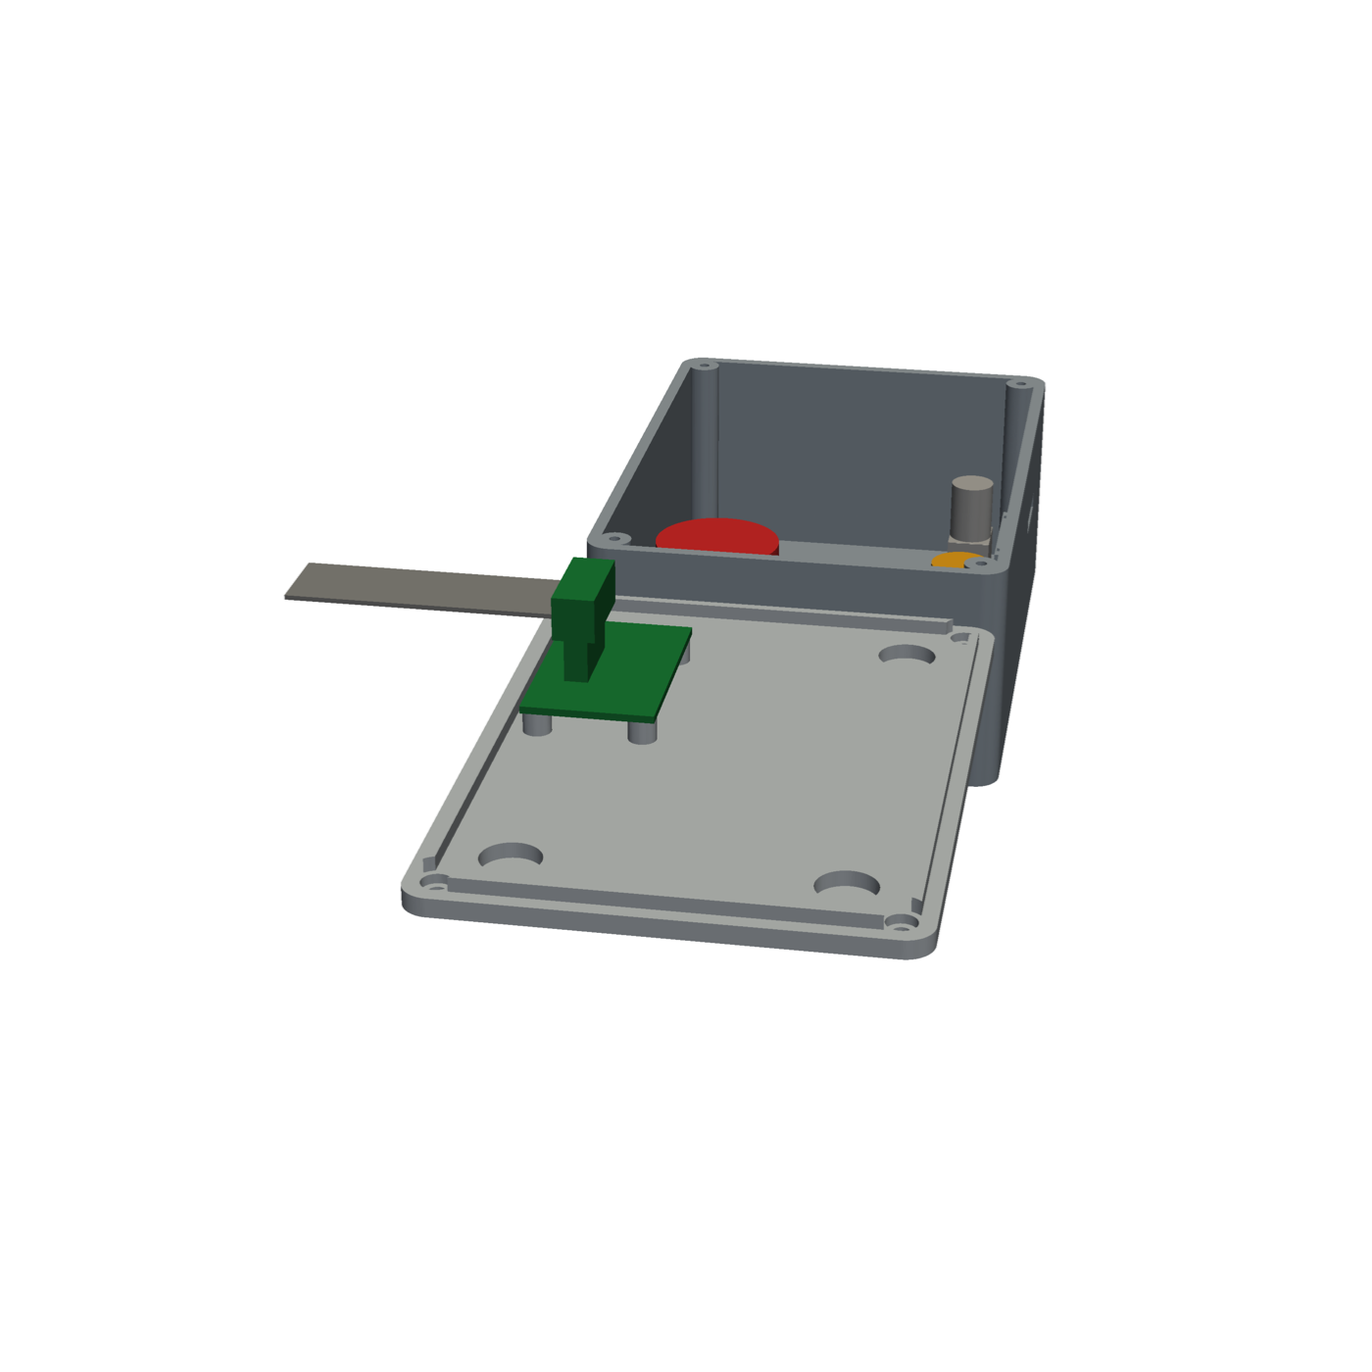
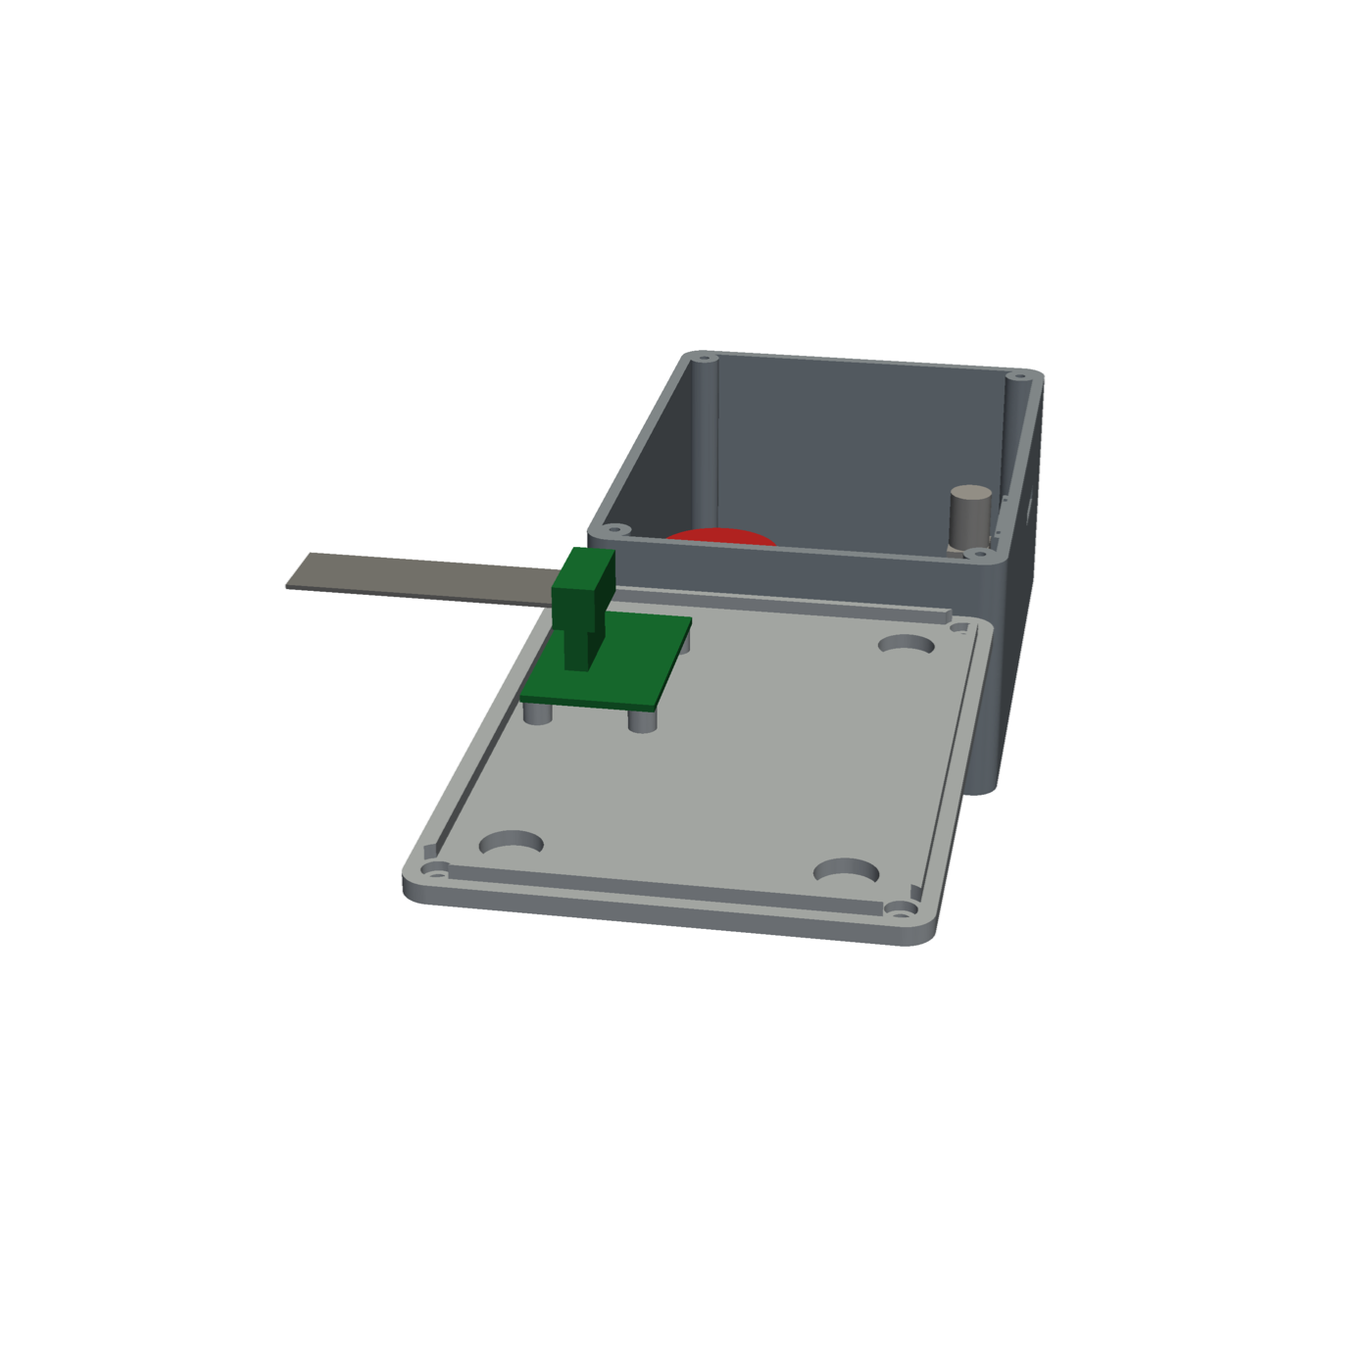
Fix enclosure PCB insertion and panel print tolerances
Enclosure:
- move the 4 lid-screw bosses beside the board on the left/right walls
  (outside the 100x100 outline, 0.8 mm from the PCB edge, 8.4 mm from the
  PCB screw axes); side margin 6.3 mm, outer 117.6 mm wide
- add a wall pad around the USB hole so the plug still reaches the Pico
- add insertion_sweep(): PCB lifted 0..45 mm in 1 mm steps, zero
  intersection with the base (negative control with overlapping bosses
  is flagged)

Panel:
- print-compensated holes: E-stop 22.5, toggle 12.4, rapid 16.3,
  encoder 7.4 / pin 3.2
- depth is now a parameter, 60 mm (12 mm behind the E-stop body)
- EC11 bushing check (panel + nut vs bushing length) with automatic rear
  thinning if needed
- zip-tie bridge: 45 degree chamfer on the bed-side face
- comment fix: cover holes are counterbored, not countersunk

Changed region(s): [[0.215, 0.2457, 0.7679, 0.7064], [0.4607, 0.2764, 0.4914, 0.3379]]

diff --git a/mechanical/enclosure/enclosure.py b/mechanical/enclosure/enclosure.py
@@ -11,7 +11,8 @@ PCB top-left corner = (0, 0). Floor underside = Z 0.
 
 Parts
   base       floor + 4 standoffs (PCB 6 mm up) + walls + connector notch + USB hole + 2 mounting ears
-             + 4 hanging lid-screw bosses in the corners (M3 self-tapping, 8 mm deep).
+             + 4 hanging lid-screw bosses on the left / right walls, entirely OUTSIDE the 100 x 100 board outline
+               (the PCB drops straight down between them; see insertion_sweep()).
   lid        plate with inner locating lip, 4 counterbored M3 holes, vent slots over the driver area,
              a fuse access opening + rebate, and a front skirt that closes the top of the J1..J3 window.
   fuse_hatch small plate that covers the fuse opening (2x M3x8 into lid-underside bosses).
@@ -64,7 +65,7 @@ class P:
     usb_z: float = 2.4                           # hole centre above PCB top (Pico USB centre line)
     # ---- shell
     wall: float = 2.5
-    pcb_clear: float = 1.0                       # gap PCB edge -> inner wall
+    pcb_clear: float = 1.0                       # gap PCB edge -> inner wall at the top (y = 0) and connector (y = 100) edges
     standoff_h: float = 6.0                      # PCB underside above the floor
     standoff_d: float = 7.0
     pilot_d: float = 2.6                         # M3 self-tapping pilot in PETG (2.5 tap drill in alu)
@@ -77,8 +78,10 @@ class P:
     lip_h: float = 3.0
     lip_t: float = 1.6
     lip_gap: float = 0.25                        # lip to inner wall clearance
-    boss_r: float = 4.5                          # lid-screw boss radius (corner, hanging from the rim)
-    boss_off: float = 3.5                        # boss centre distance from the two inner wall faces
+    boss_r: float = 3.5                          # lid-screw boss radius (hangs from the rim on the left / right walls)
+    boss_gap: float = 0.8                        # boss surface -> PCB edge (the PCB passes beside the bosses)
+    boss_embed: float = 1.5                      # how far the boss sinks into the side wall
+    boss_y: tuple = (3.0, 97.5)                  # boss centres along the wall (PCB y)
     boss_h: float = 9.0
     boss_hole: float = 2.6
     boss_hole_depth: float = 8.0
@@ -135,8 +138,18 @@ class P:
         return self.z_rim + self.lid_t
 
     @property
+    def side_clear(self):
+        """Gap PCB edge -> inner side wall: room for a boss beside the board (2r + gap - embed = 6.3 mm)."""
+        return 2 * self.boss_r + self.boss_gap - self.boss_embed
+
+    @property
+    def filler_y(self):
+        """PCB-y range of the right-wall pad around the USB hole (starts 1 mm past the top boss)."""
+        return (self.boss_y[0] + self.boss_r + 1.0, self.usb_y + 12.0)
+
+    @property
     def inner_w(self):
-        return self.pcb_w + 2 * self.pcb_clear
+        return self.pcb_w + 2 * self.side_clear
 
     @property
     def inner_d(self):
@@ -180,10 +193,9 @@ class P:
 
     @property
     def boss_pts(self):
-        c, o = self.pcb_clear, self.boss_off
-        xs = (-c + o, self.pcb_w + c - o)
-        ys = (-c + o, self.pcb_h + c - o)
-        return [(x, y) for y in ys for x in xs]       # PCB coordinates
+        d = self.boss_r + self.boss_gap
+        xs = (-d, self.pcb_w + d)
+        return [(x, y) for y in self.boss_y for x in xs]       # PCB coordinates; all outside x 0..100
 
 
 p = P()
@@ -223,7 +235,7 @@ def base():
         so = zcyl(x, y, p.z_floor - 0.5, p.standoff_h + 0.5, p.standoff_d / 2)
         so = so - zcyl(x, y, p.z_floor + p.standoff_h - p.pilot_depth, p.pilot_depth + 1, p.pilot_d / 2)
         s = s + so
-    # lid-screw bosses hanging from the rim in the four corners (45 degree cone underneath = printable)
+    # lid-screw bosses hanging from the rim on the side walls, beside the board (45 degree cone underneath = printable)
     cone_h = p.boss_r - 1.0
     for (x, y) in p.boss_pts:
         b = zcyl(x, y, p.z_rim - p.boss_h, p.boss_h, p.boss_r)
@@ -234,7 +246,7 @@ def base():
     # mounting ears on the left / right walls
     cy = -p.ear_y
     for side in (-1, 1):
-        x_out = -p.pcb_clear - p.wall if side < 0 else p.pcb_w + p.pcb_clear + p.wall
+        x_out = -p.side_clear - p.wall if side < 0 else p.pcb_w + p.side_clear + p.wall
         x_c = x_out + side * (p.ear_len / 2 - 1.0)                      # 1 mm buried into the wall
         ear = Pos(x_c, cy, 0) * Box(p.ear_len, p.ear_w, p.ear_t, align=MIN)
         slot_c = x_out + side * (p.ear_len / 2 + 1.5)
@@ -245,10 +257,14 @@ def base():
     y_out = y_in + p.wall
     nx0, nx1 = p.notch_x
     s = s - pbox(nx0, y_in - 1.0, nx1, y_out + 1.0, p.notch_bot, p.z_rim + 1)
+    # right wall pad around the USB hole: brings the inside face back to pcb_clear so the Pico micro-USB is only
+    # a few mm behind the wall (a plug cannot reach it across the 6.3 mm boss strip)
+    fy0, fy1 = p.filler_y
+    s = s + pbox(p.pcb_w + p.pcb_clear, fy0, p.pcb_w + p.side_clear + 0.5, fy1, p.z_floor - 0.5, p.z_rim)
     # micro-USB hole in the +x wall
     xi = p.pcb_w + p.pcb_clear
     zc = p.z_pcb_top + p.usb_z
-    s = s - pbox(xi - 1.0, p.usb_y - p.usb_w / 2, xi + p.wall + 1.0, p.usb_y + p.usb_w / 2, zc - p.usb_h / 2, zc + p.usb_h / 2)
+    s = s - pbox(xi - 1.0, p.usb_y - p.usb_w / 2, p.pcb_w + p.side_clear + p.wall + 1.0, p.usb_y + p.usb_w / 2, zc - p.usb_h / 2, zc + p.usb_h / 2)
     return s
 
 
@@ -259,14 +275,14 @@ def lid():
     g = p.lip_gap
     lip = rprism(p.inner_w - 2 * g, p.inner_d - 2 * g, max(p.r_in - g, 0.5), p.z_rim - p.lip_h, p.z_rim)
     lip = lip - rprism(p.inner_w - 2 * g - 2 * p.lip_t, p.inner_d - 2 * g - 2 * p.lip_t, 0.5, p.z_rim - p.lip_h - 1, p.z_rim + 1)
-    for (x, y) in p.boss_pts:                                    # relief around the corner bosses
+    for (x, y) in p.boss_pts:                                    # relief around the side-wall bosses
         lip = lip - zcyl(x, y, p.z_rim - p.lip_h - 1, p.lip_h + 2, p.boss_r + 0.4)
     nx0, nx1 = p.notch_x
     y_in = p.pcb_h + c
     y_out = y_in + p.wall
+    fy0, fy1 = p.filler_y
+    lip = lip - pbox(p.pcb_w + c - 0.5, fy0 - 0.5, p.pcb_w + p.side_clear + 1.0, fy1 + 0.5, p.z_rim - p.lip_h - 1, p.z_rim + 1)   # right lip gap at the pad
     lip = lip - pbox(nx0 - 0.5, y_in - 3.0, nx1 + 0.5, y_in + 0.5, p.z_rim - p.lip_h - 1, p.z_rim + 1)   # front lip gap
-    hx0, hy0, hx1, hy1 = p.hatch_rebate
-    lip = lip - pbox(hx0 - 1.0, hy0, hx1 + 1.0, hy1, p.z_rim - p.lip_h - 1, p.z_rim + 1)               # left lip gap at the hatch
     s = s + lip
     # skirt that closes the top of the J1..J3 window (flush with the outer wall face)
     wx0, wx1 = p.win_x
@@ -351,6 +367,30 @@ def interference(parts):
     return bad
 
 
+def insertion_sweep(base_shape, top=45.0, step=1.0):
+    """Lift the PCB placeholder (board + every part on it) straight up from its seat in `step` mm increments and
+    intersect it with the base at each height. This is the reverse of installing the board: all zero means the
+    board can be lowered onto the standoffs without touching anything. dz = 0 is the seated position."""
+    pieces = [pc for pc in pcb_placeholder()]
+    worst = 0.0
+    n = int(round(top / step))
+    for i in range(n + 1):
+        dz = i * step
+        for pc in pieces:
+            v = (base_shape & (Pos(0, 0, dz) * pc)).volume
+            worst = max(worst, v)
+            if v > 0.01:
+                print("  INSERTION COLLISION at dz=%.1f mm: %.3f mm3" % (dz, v))
+    ok = worst <= 0.01
+    print("insertion sweep: PCB lifted 0..%.0f mm in %.1f mm steps (%d positions), max intersection with base %.4f mm3 -> %s"
+          % (top, step, n + 1, worst, "CLEAR" if ok else "COLLISION"))
+    # also report the nearest approach of any boss to the board outline
+    d = min(abs(x - 0) - p.boss_r if x < 50 else abs(x - p.pcb_w) - p.boss_r for x, _ in p.boss_pts)
+    print("boss surface to PCB edge: %.2f mm; boss axis to nearest PCB screw axis: %.1f mm"
+          % (d, min(math.hypot(bx - hx, by - hy) for bx, by in p.boss_pts for hx, hy in p.holes)))
+    return ok
+
+
 def build(suffix=""):
     os.makedirs(OUT, exist_ok=True)
     parts = {"base": base(), "lid": lid(), "fuse_hatch": fuse_hatch()}
@@ -413,5 +453,6 @@ if __name__ == "__main__":
         parts = build()
     info(parts)
     interference(parts)
+    insertion_sweep(parts["base"])
     if "--alu" not in sys.argv:
         render(parts)

diff --git a/mechanical/panel/panel.py b/mechanical/panel/panel.py
@@ -22,8 +22,8 @@ import subprocess
 import sys
 from dataclasses import dataclass
 
-from build123d import (Align, Box, Compound, Cylinder, Pos, RectangleRounded, Rot, SlotOverall, Text, export_step,
-                       export_stl, extrude)
+from build123d import (Align, Box, Compound, Cylinder, Polyline, Pos, RectangleRounded, Rot, SlotOverall, Text, export_step,
+                       export_stl, extrude, make_face)
 
 HERE = os.path.dirname(os.path.abspath(__file__))
 OUT = os.path.join(HERE, "out")
@@ -37,7 +37,7 @@ class P:
     box_h: float = 100.0
     wall: float = 3.0
     front_t: float = 3.0
-    cavity: float = 52.0                 # rim -> rear face of the front plate (E-stop body 45 + 7 for wiring)
+    depth: float = 60.0                  # rim -> front face. E-stop body 45 mm + 12 mm for its rear terminals/wiring: MEASURE YOUR E-STOP
     r_out: float = 6.0
     r_in: float = 3.0
     # ---- back cover
@@ -53,23 +53,27 @@ class P:
     cbore_depth: float = 2.0
     # ---- controls (front face, x, y)
     estop_pos: tuple = (44.0, 22.0)
-    estop_hole: float = 22.3
+    estop_hole: float = 22.5             # 22 mm nominal; printed holes come out ~0.2-0.3 small
     estop_head_d: float = 40.0
     estop_head_h: float = 25.0
     estop_depth: float = 45.0            # body behind the panel
     toggle_pos: tuple = (-44.0, -33.0)
-    toggle_hole: float = 12.2
+    toggle_hole: float = 12.4            # 12 mm bushing
     toggle_depth: float = 30.0
     rapid_pos: tuple = (0.0, -34.0)
-    rapid_hole: float = 16.0
+    rapid_hole: float = 16.3             # 16 mm button
     rapid_depth: float = 25.0
     enc_pos: tuple = (0.0, -1.0)
-    enc_hole: float = 7.2
+    enc_hole: float = 7.4                # M7 bushing
     enc_pin: bool = True                 # anti-rotation pin hole
-    enc_pin_d: float = 3.0
+    enc_pin_d: float = 3.2
     enc_pin_off: float = 7.8
     enc_knob_d: float = 30.0
     enc_depth: float = 20.0
+    enc_bushing_len: float = 6.0         # threaded bushing length of the EC11 (typ. 5-7 mm): check yours
+    enc_nut_t: float = 2.0               # M7 nut
+    enc_thread_spare: float = 0.5        # thread that must stick out past the nut
+    enc_recess_d: float = 11.0           # rear pocket diameter if the panel has to be thinned around the encoder
     # ---- OLED 1.3" 128x64 SH1106 module
     oled_pos: tuple = (0.0, 28.0)        # module centre
     oled_pcb: tuple = (35.4, 33.5)
@@ -86,7 +90,7 @@ class P:
     cable_h: float = 4.0
     cable_z: float = 21.0                # slot centre height above the rim
     tie_bridge_w: float = 30.0
-    tie_bridge_z: tuple = (27.0, 32.0)
+    tie_bridge_z: tuple = (24.5, 32.0)   # z of the bridge at the wall: bottom face / top (bed side) edge; the bed-side face is a 45 degree chamfer
     tie_bridge_d: float = 5.0            # how far it sticks out from the inner wall face
     tie_slot: tuple = (1.8, 4.2)         # zip tie 3.6 mm wide: slot x, y
     tie_dx: float = 11.5
@@ -109,8 +113,12 @@ class P:
     font: str = "Arial"
 
     @property
-    def depth(self):
-        return self.cavity + self.front_t
+    def cavity(self):                    # rim -> rear face of the front plate
+        return self.depth - self.front_t
+
+    @property
+    def enc_recess(self):                # depth of the rear thinning around the encoder (0 for a 3 mm panel)
+        return max(0.0, self.front_t + self.enc_nut_t + self.enc_thread_spare - self.enc_bushing_len)
 
     @property
     def z_plate(self):                   # rear face of the front plate
@@ -182,19 +190,26 @@ def shell():
             post = zcyl(x, y, p.z_plate - p.oled_post_h, p.oled_post_h + 0.01, p.oled_post_d / 2)
             post = post - zcyl(x, y, p.z_plate - p.oled_post_h - 1, p.oled_pilot_depth + 1, p.oled_pilot_d / 2)
             s = s + post
-    # zip-tie bridge for the ribbon strain relief (hangs off the bottom wall)
+    # zip-tie bridge for the ribbon strain relief (hangs off the bottom wall). The shell prints front-face-down, so
+    # the layers build from z = depth toward z = 0 and the bridge face toward +z (the bed side) is the overhang:
+    # it is a 45 degree chamfer from the wall (z = bz1) down to the tip (z = bz1 - d), so nothing is flat.
     yw = -p.box_h / 2 + p.wall
     bz0, bz1 = p.tie_bridge_z
-    br = box(p.cable_x - p.tie_bridge_w / 2, yw - 0.5, bz0, p.cable_x + p.tie_bridge_w / 2, yw + p.tie_bridge_d, bz1)
+    d = p.tie_bridge_d
+    x0 = p.cable_x - p.tie_bridge_w / 2
+    prof = [(x0, yw - 0.5, bz1), (x0, yw, bz1), (x0, yw + d, bz1 - d), (x0, yw + d, bz0), (x0, yw - 0.5, bz0)]
+    br = extrude(make_face(Polyline(*prof, close=True)), amount=p.tie_bridge_w, dir=(1, 0, 0))
     for sx in (-1, 1):
-        br = br - box(p.cable_x + sx * p.tie_dx - p.tie_slot[0] / 2, yw + p.tie_bridge_d / 2 - p.tie_slot[1] / 2, bz0 - 1,
-                      p.cable_x + sx * p.tie_dx + p.tie_slot[0] / 2, yw + p.tie_bridge_d / 2 + p.tie_slot[1] / 2, bz1 + 1)
+        br = br - box(p.cable_x + sx * p.tie_dx - p.tie_slot[0] / 2, yw + d / 2 - p.tie_slot[1] / 2, bz0 - 1,
+                      p.cable_x + sx * p.tie_dx + p.tie_slot[0] / 2, yw + d / 2 + p.tie_slot[1] / 2, bz1 + 1)
     s = s + br
     # ---- front plate cut-outs
     s = s - front_hole(p.estop_pos, p.estop_hole)
     s = s - front_hole(p.toggle_pos, p.toggle_hole)
     s = s - front_hole(p.rapid_pos, p.rapid_hole)
     s = s - front_hole(p.enc_pos, p.enc_hole)
+    if p.enc_recess > 0:                 # thin the panel from behind so the M7 bushing still clears the nut
+        s = s - zcyl(p.enc_pos[0], p.enc_pos[1], p.z_plate - 1, p.enc_recess + 1, p.enc_recess_d / 2)
     if p.enc_pin:
         s = s - front_hole((p.enc_pos[0], p.enc_pos[1] + p.enc_pin_off), p.enc_pin_d)
     s = s - Pos(ox, oy + p.oled_win_dy, p.z_plate - 1) * Box(*p.oled_win, p.front_t + 2, align=MIN)
@@ -221,7 +236,7 @@ def back_cover():
     for (x, y) in p.boss_pts:
         lip = lip - zcyl(x, y, -1, p.lip_h + 2, p.boss_r + 0.4)
     s = s + lip
-    for (x, y) in p.boss_pts:                          # countersunk M3
+    for (x, y) in p.boss_pts:                          # M3 clearance hole + counterbore for the pan head (not a countersink)
         s = s - zcyl(x, y, -p.cover_t - 1, p.cover_t + 2, 1.7)
         s = s - zcyl(x, y, -p.cbore_depth, p.cbore_depth + 1, p.cbore_d / 2)
     # magnet pockets: open on the inside, skin outside
@@ -352,6 +367,8 @@ def render(parts, hw):
 
 
 def info(parts):
+    print("encoder: panel %.1f + nut %.1f + %.1f spare = %.1f vs bushing %.1f -> rear recess %.2f mm"
+          % (p.front_t, p.enc_nut_t, p.enc_thread_spare, p.front_t + p.enc_nut_t + p.enc_thread_spare, p.enc_bushing_len, p.enc_recess))
     print("box %.0f x %.0f, depth %.0f mm (+%.0f cover); cavity %.0f; E-stop body %.0f mm behind the plate -> %.0f mm spare"
           % (p.box_w, p.box_h, p.depth, p.cover_t, p.cavity, p.estop_depth, p.cavity - p.estop_depth))
     for name, sh in parts.items():

diff --git a/mechanical/README.md b/mechanical/README.md
@@ -26,13 +26,13 @@ Parts: `base`, `lid`, `fuse_hatch` (+ `pcb_placeholder`, render only).
 
 | Item | Value |
 |---|---|
-| Outer size (PETG) | 107 x 107 x 41.1 mm (lid on); 137 wide with the ears |
+| Outer size (PETG) | 117.6 x 107 x 41.1 mm (lid on); 147.6 wide with the ears |
 | Wall / floor | 2.5 mm (`wall`); `P.alu()` = 3.0 mm |
-| PCB position | 1 mm gap to every wall (`pcb_clear`), PCB underside 6 mm above the floor top (z 8.5..10.1) |
+| PCB position | 1 mm gap to the top and connector walls (`pcb_clear`), 6.3 mm to the left / right walls (`side_clear`, room for the lid bosses), PCB underside 6 mm above the floor top (z 8.5..10.1) |
 | Inside height | 35.6 mm = 6 + 1.6 + 25 + 3 (`cap_clear`); the caps top out at z 35.1, lid underside at 38.1 |
 | Standoffs | 4 x Ø7 at the PCB holes, Ø2.6 x 8 pilot (M3 self-tapping, PETG) |
 | Lid | 3 mm plate, 3 mm inner lip (0.25 mm clearance), 4 x M3 counterbored, vents, fuse opening |
-| Lid screws | 4 hanging bosses in the corners of the base (Ø9, 9 mm tall, 45 degree cone underneath so they print without support), Ø2.6 x 8 pilot |
+| Lid screws | 4 hanging bosses on the left / right walls (Ø7, 9 mm tall, 45 degree cone underneath so they print without support), Ø2.6 x 8 pilot. They sit entirely outside the 100 x 100 board outline (0.8 mm from the PCB edge, 8.4 mm from the nearest PCB screw axis), so the board drops straight in and its screws stay reachable |
 | Vents | 8 slots 2.2 x 31 mm, 4.5 mm pitch, over x 25..60, y 50..85 |
 | Mounting ears | 2 x (16 x 20 x 3 mm) on the left / right wall at PCB y = 50, Ø5.5 x 9.5 slot (M5) |
 
@@ -43,9 +43,15 @@ Connector openings (the +y wall):
   z 9.1 (PCB top - 1) to the top of the wall, so the cables come out upward and over the wall edge.
 - The wall above the J1..J3 window is part of the **lid**: a skirt (x 11.2..65.2, z 23.1 up) closes it. This avoids
   a 54 mm wall bridge that is only held at one end, and it prints with no supports.
-- **Micro-USB**: 14 x 9.5 mm hole in the +x wall at PCB y = 15, centred 2.4 mm above the PCB top.
+- **Micro-USB**: 14 x 9.5 mm hole in the +x wall at PCB y = 15, centred 2.4 mm above the PCB top. Because the
+  side margin is 6.3 mm, a 5.3 mm thick pad (PCB y 7.5..27) brings the wall inner face back to the 1 mm PCB gap
+  around the USB hole, so the plug reaches the connector as before.
 - **Fuse holder** (x 0..11, y 59..87): a 10 x 26 mm opening in the lid above it plus a separate `fuse_hatch` plate
   (rebate 1.2 mm, fixed by 2 x M3x8 into two small bosses under the lid). Pull the fuse out through the opening.
+
+**PCB insertion check**: `insertion_sweep()` (run with the script) lifts the PCB placeholder with all its parts
+straight up from its seat in 1 mm steps to 45 mm and intersects it with the base at each of the 46 positions: result
+0.0000 mm3 everywhere (CLEAR). Check it by hand if you change `boss_gap`, `boss_r`, or the PCB footprint.
 
 Print notes (PETG): base floor-down; lid upside down (plate on the bed, skirt/lip/bosses up); hatch flat.
 0.2 mm layers, 3+ perimeters, 20 % infill. No supports needed. Heat-set inserts (M3, Ø4.0 hole) can replace the
@@ -63,25 +69,28 @@ Hardware: 4 x M3x10 pan head (PCB into standoffs), 4 x M3x8 pan head (lid), 2 x 
 ## 2. Front panel / pendant box (`panel/panel.py`)
 
 Frame: origin at the box centre, X right and Y up as seen from the front, Z = depth; shell rim at Z = 0, front
-face at Z = 55; the back cover is Z -4..0.
+face at Z = 60 (`depth`); the back cover is Z -4..0.
 
 Parts: `shell` (front plate + walls), `back_cover` (+ `hardware_placeholder`, render only).
 
 | Item | Value |
 |---|---|
-| Box | 140 x 100 mm, 55 mm deep (+4 mm cover), 3 mm walls and front plate, cavity 52 mm (E-stop body 45 mm, 7 mm spare) |
-| E-stop | Ø22.3 hole at (44, 22), right column; head Ø40 9 mm clear of the dial knob |
+| Box | 140 x 100 mm, 60 mm deep (`depth`, +4 mm cover), 3 mm walls and front plate, cavity 57 mm (E-stop body 45 mm, 12 mm spare for its rear terminals and wiring). **Measure your E-stop** (body depth incl. contact blocks) and set `depth` to suit |
+| E-stop | Ø22.5 hole at (44, 22), right column; head Ø40 9 mm clear of the dial knob |
 | OLED | window 30 x 16 at (0, 30.5); module centre (0, 28); 4 posts Ø5 x 2.5 mm at 30.4 x 28.5, M2 self-tapping pilots Ø1.7 |
-| Dial (EC11) | Ø7.2 hole at (0, -1) + Ø3 anti-rotation hole 7.8 mm above it; Ø30 knob |
-| Toggle | Ø12.2 hole at (-44, -33); mount it with the lever swinging left-right (LEFT / STOP / RIGHT labels above it) |
-| Rapid button | Ø16 hole at (0, -34) |
-| Cable entry | 20 x 4 mm slot in the bottom wall at x = -22, z = 21; a zip-tie bridge inside it (two 1.8 x 4.2 slots at x -22 +-11.5, for 2.5-3.6 mm ties) is the strain relief |
+| Dial (EC11) | Ø7.4 hole at (0, -1) + Ø3.2 anti-rotation hole 7.8 mm above it; Ø30 knob. Panel 3 mm + M7 nut 2 mm + 0.5 mm spare = 5.5 mm, so it needs a bushing of at least 5.5 mm (typical EC11 6 mm): `enc_bushing_len`. If your encoder has a shorter bushing or you thicken the panel, the script thins the panel from behind (Ø11 pocket) automatically |
+| Toggle | Ø12.4 hole at (-44, -33); mount it with the lever swinging left-right (LEFT / STOP / RIGHT labels above it) |
+| Rapid button | Ø16.3 hole at (0, -34) |
+| Cable entry | 20 x 4 mm slot in the bottom wall at x = -22, z = 21; a zip-tie bridge inside it (two 1.8 x 4.2 slots at x -22 +-11.5, for 2.5-3.6 mm ties) is the strain relief; its face toward the print bed is a 45 degree chamfer, so it prints without supports |
 | Back cover | 4 x M3 clearance with Ø6.2 x 2 counterbore, 2 mm locating lip, 4 x Ø12.3 x 3.2 magnet pockets open to the inside (0.8 mm skin outside), 4 adapter-board posts |
 | Adapter board | 45 x 28 mm placeholder with the 2x7 IDC header, 4 posts 5 mm tall at 39 x 22 mm (M3 self-tapping) |
 
 Engraved labels (0.6 mm deep, 4 mm Arial): SPEED, RAPID, LEFT, STOP, RIGHT, E-STOP. They are cut with build123d
 `Text` and the font worked here; if it fails on your machine the script prints a warning and skips that label, and
 the label list is `P.labels` (position of each text on the front face).
+
+Press-fit holes are sized for printing (nominal + 0.2..0.5 mm: 22.5 / 12.4 / 16.3 / 7.4 / 3.2); the Ø12.3 magnet
+pockets and M2/M3 pilots likewise. Test-fit one hole before printing the whole shell and adjust the `*_hole` values.
 
 Print notes (PETG): shell front face on the bed (the engraving then prints as a clean top surface, so use a 0.12
 mm layer height or an ironing pass for the text); cover flat, inside face up. Magnets: glue in before closing the
